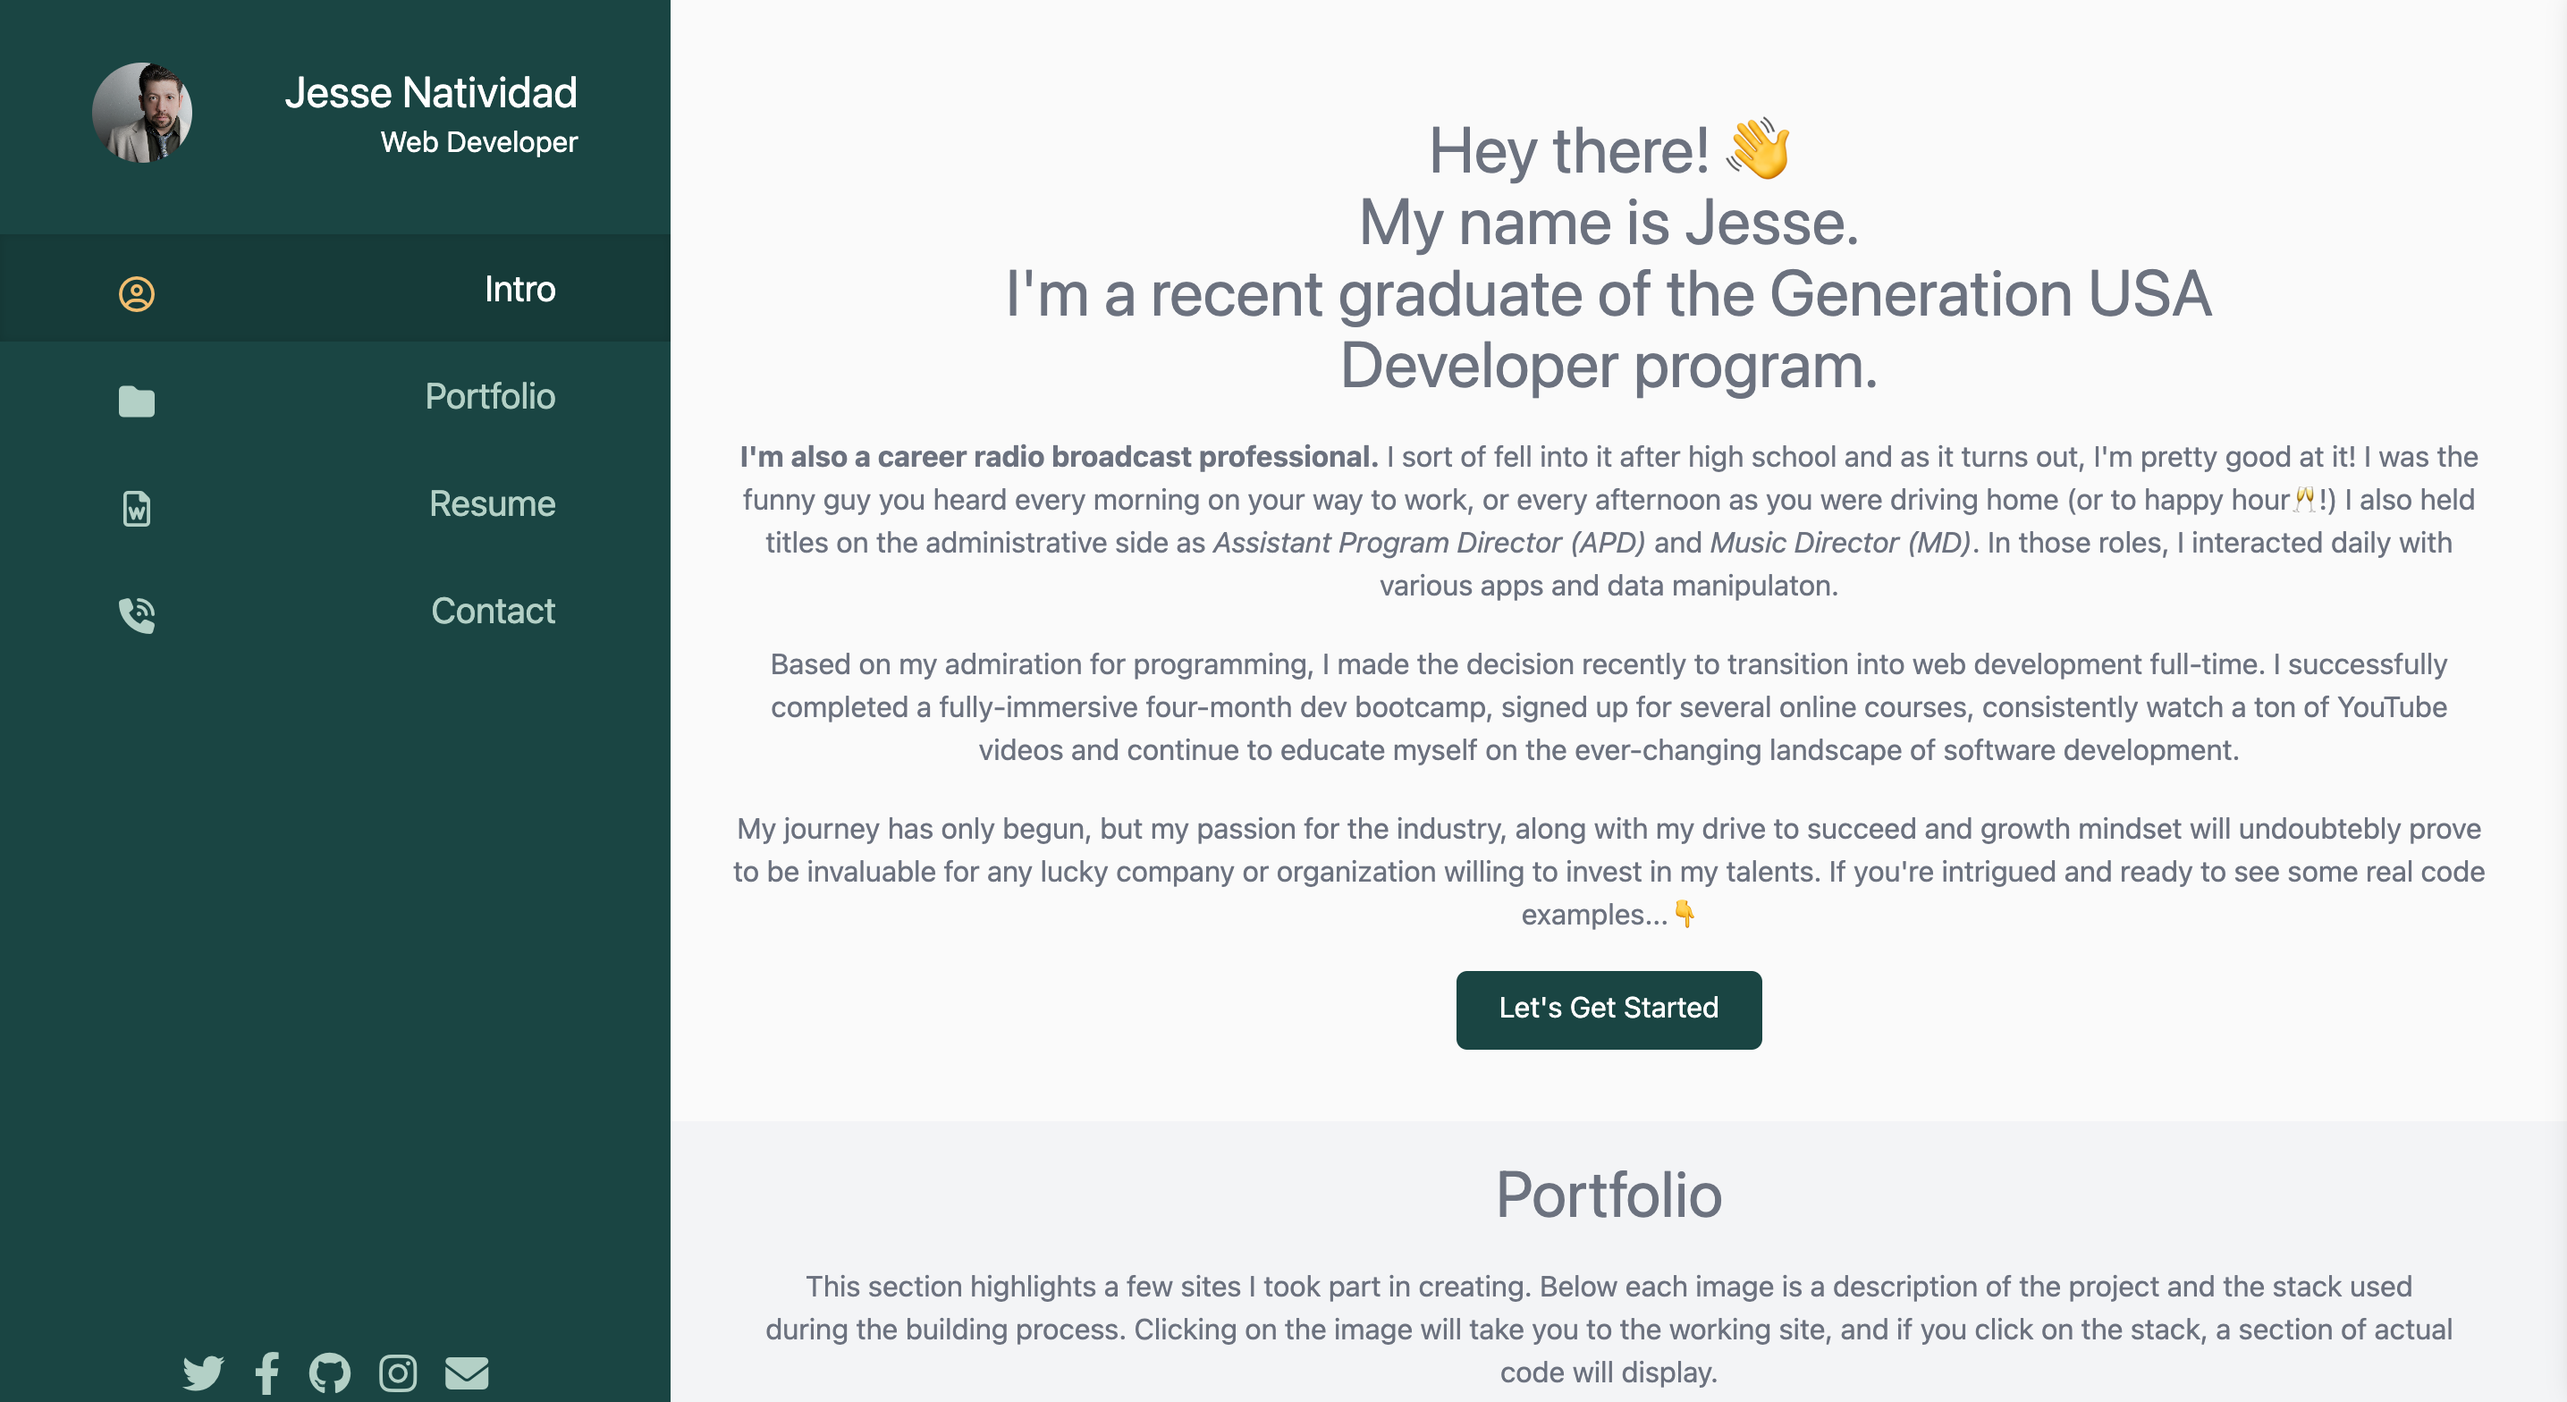
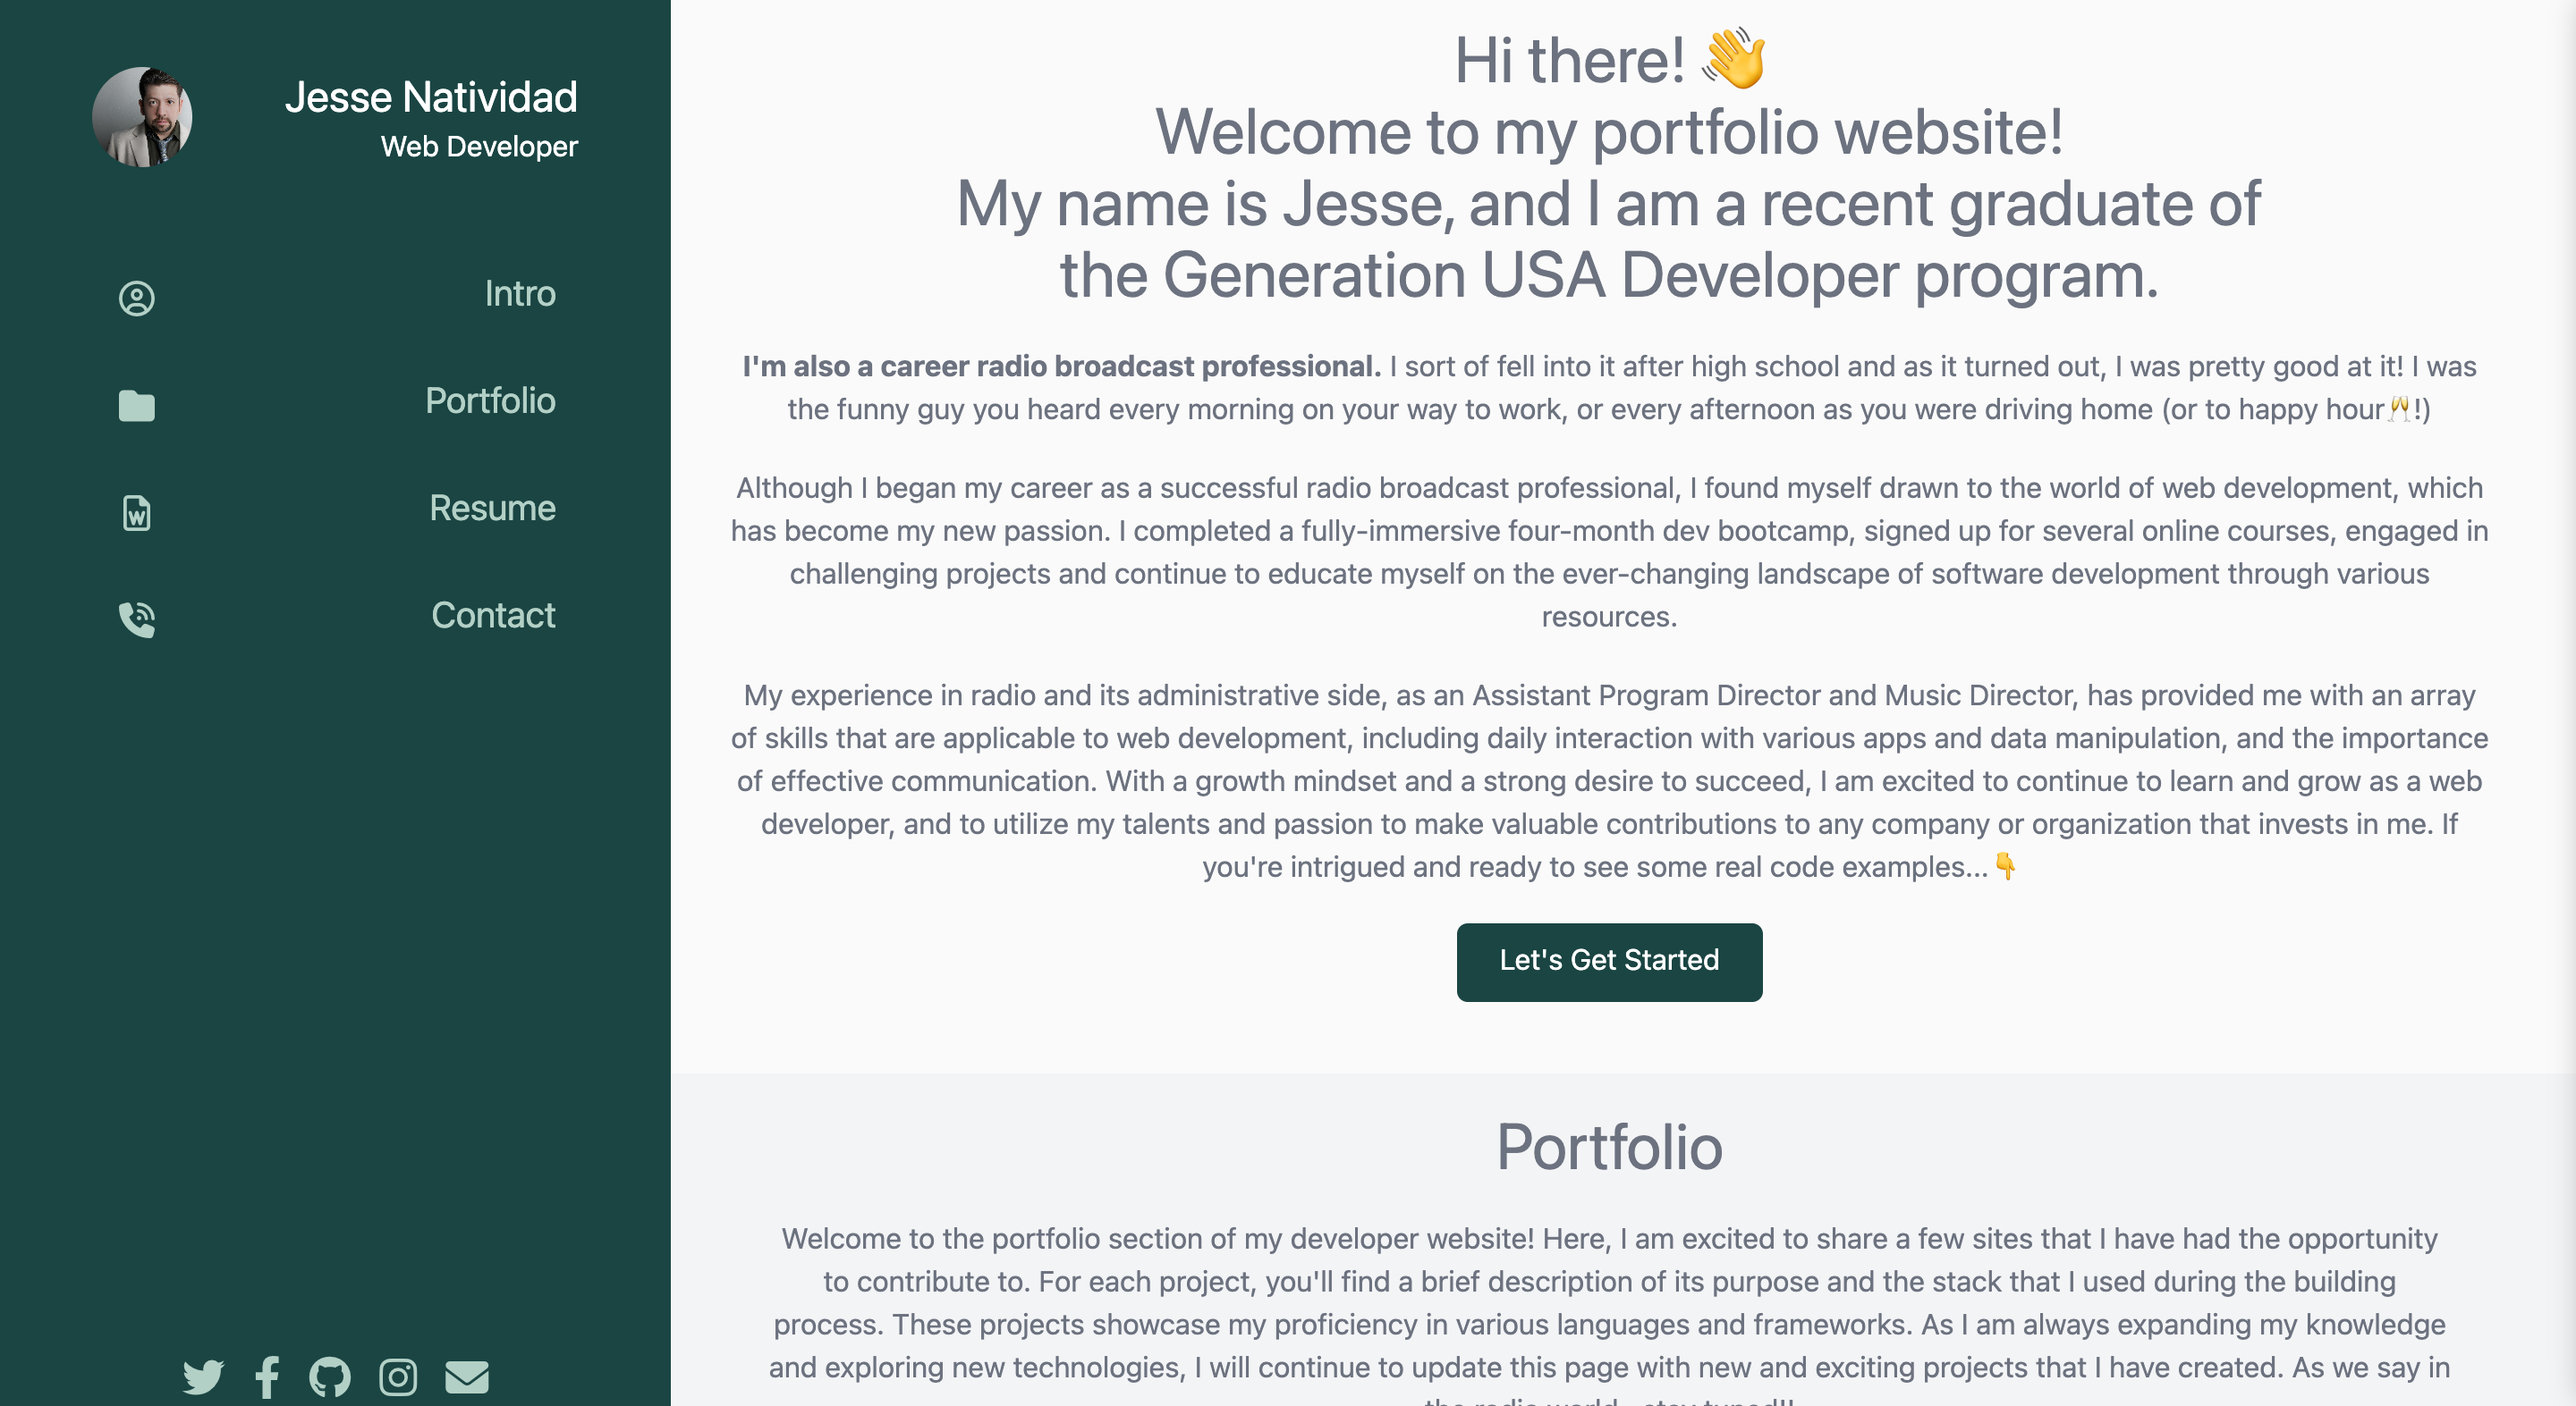
index text and quickview update

diff --git a/index.html b/index.html
@@ -84,7 +84,7 @@
                     <header class="text-center lg:px-28 lg:pt-5">
                         <h2 class="text-4xl">Hi there! &#128075; <br />Welcome to my portfolio website!<br /> My name is Jesse, and I am a recent graduate of the Generation USA Developer program. </h2>
                     </header>
-                    <p class="mt-5 mb-5 text-center"><strong>I'm also a career radio broadcast professional.</strong> I sort of fell into it after high school and as it turns out, I'm pretty good at it! I was the funny guy you heard every morning on your way to work, or every afternoon as you were driving home (or to happy hour&#129346;!)</p> 
+                    <p class="mt-5 mb-5 text-center"><strong>I'm also a career radio broadcast professional.</strong> I sort of fell into it after high school and as it turned out, I was pretty good at it! I was the funny guy you heard every morning on your way to work, or every afternoon as you were driving home (or to happy hour&#129346;!)</p> 
                     <p class="mt-5 mb-5 text-center">
                     Although I began my career as a successful radio broadcast professional, I found myself drawn to the world of web development, which has become my new passion. I completed a fully-immersive four-month dev bootcamp, signed up for several online courses, engaged in challenging projects and continue to educate myself on the ever-changing landscape of software development through various resources.</p>
                     <p class="mt-5 mb-5 text-center">
@@ -147,7 +147,7 @@
                 <div class="container p-12 text-gray-500">
                     <header class="text-center">
                         <h1 class="text-4xl">Contact</h1>
-                            <p>That's it! You've made it to the the end of the program! The only remaining step is to fill out the form below and send me a message with any questions you might have. I'm available 24 hours a day/7 days a week (via form) and will respond as soon as I put together the perfect response! Until then, please continue to click through new dev talent profiles and websites because there are a lot of us out there begging for a chance to prove our worth and a special thanks to YOU for visiting My profile page!&#128591;</p>
+                            <p>That's it! You've made it to the the end of the program! The only remaining step is to fill out the form below and send me a message with any questions or feedback you might have. I'm available 24/7/365 (via form) and will respond as soon as I put together the perfect response! Until then, please continue to click through new dev talent profiles and websites, because there are a lot of us out there begging for a chance to prove our worth! Lastly, I'd like to send a big shout out to YOU for visiting My profile page!&#128591;</p>
                     </header>
                 </div>
                 <!-- Form -->
